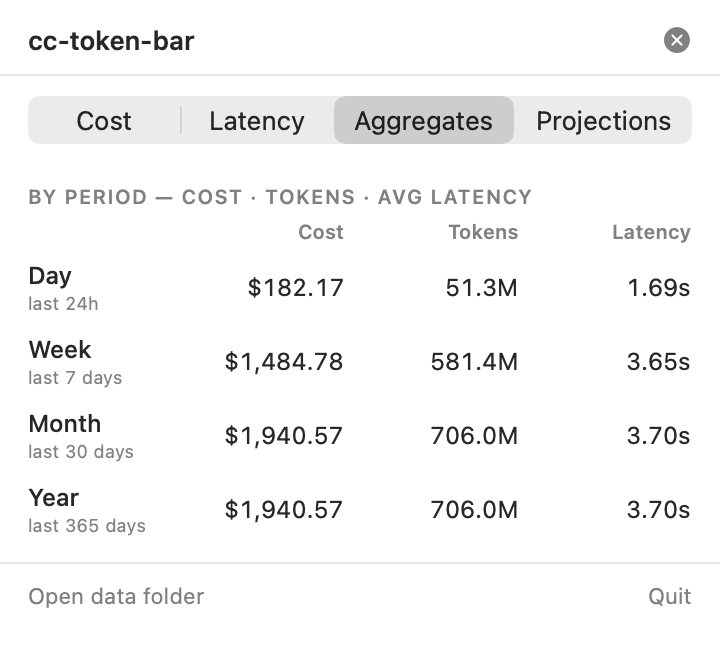
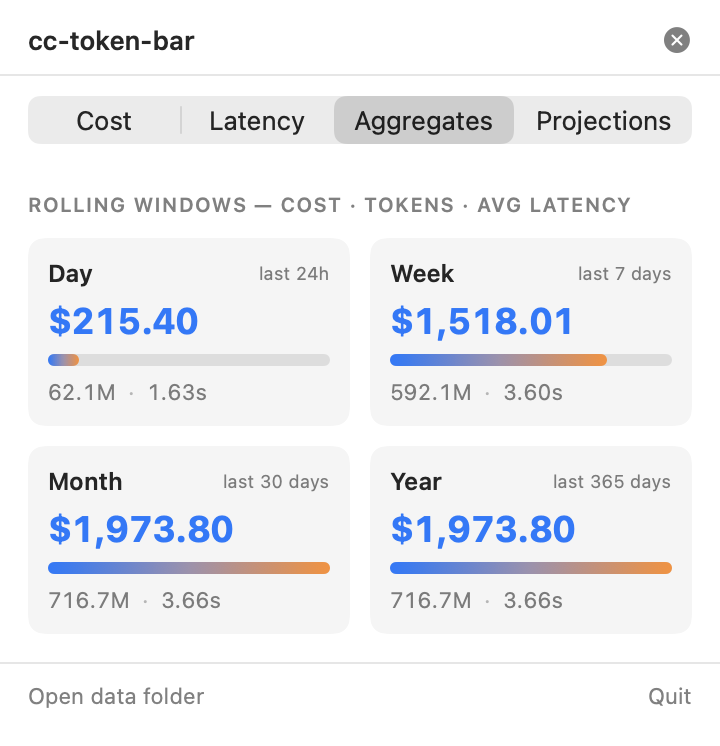
added 2 new tabs

diff --git a/app/Sources/cc-token-bar/Views.swift b/app/Sources/cc-token-bar/Views.swift
@@ -209,11 +209,43 @@ struct PanelView: View {
     }
 
     private var aggregationsSection: some View {
-        periodsSection
+        VStack(alignment: .leading, spacing: 10) {
+            sectionTitle("Rolling windows — cost · tokens · avg latency")
+            LazyVGrid(columns: [GridItem(.flexible(), spacing: 10),
+                                GridItem(.flexible(), spacing: 10)], spacing: 10) {
+                ForEach(store.agg.periods) { p in periodCard(p) }
+            }
+        }
+        .padding(14)
+    }
+
+    private func periodCard(_ p: PeriodRollup) -> some View {
+        let maxCost = store.agg.periods.map(\.costUSD).max() ?? 0
+        return VStack(alignment: .leading, spacing: 6) {
+            HStack {
+                Text(p.label).font(.system(size: 12, weight: .semibold))
+                Spacer()
+                Text(p.sub).font(.system(size: 9)).foregroundStyle(.secondary)
+            }
+            Text(DataStore.formatUSD(p.costUSD))
+                .font(.system(size: 18, weight: .bold)).monospacedDigit()
+                .foregroundStyle(Color.accentColor)
+            bar(fraction: maxCost > 0 ? p.costUSD / maxCost : 0)
+            HStack(spacing: 6) {
+                Text(DataStore.formatTokens(p.tokens))
+                Text("·").foregroundStyle(.tertiary)
+                Text(p.avgLatencyMs > 0 ? DataStore.formatMs(p.avgLatencyMs) : "—")
+            }
+            .font(.system(size: 11)).foregroundStyle(.secondary).monospacedDigit()
+        }
+        .padding(10)
+        .frame(maxWidth: .infinity, alignment: .leading)
+        .background(.quaternary.opacity(0.4))
+        .clipShape(RoundedRectangle(cornerRadius: 8))
     }
 
     private var projectionsSection: some View {
-        VStack(alignment: .leading, spacing: 10) {
+        VStack(alignment: .leading, spacing: 12) {
             sectionTitle("Projected at last 7-day pace")
             HStack(spacing: 10) {
                 kpi(title: "Next 7 days",
@@ -223,42 +255,42 @@ struct PanelView: View {
                     value: DataStore.formatUSD(store.agg.projection.monthlyCost),
                     sub: "\(DataStore.formatTokens(store.agg.projection.monthlyTokens)) tokens")
             }
-            Text("Extrapolated from your last 7 days of usage: daily rate × 7 for the week, × 30 for the month.")
+            trendChart(title: "Cost trend", value: { $0.cost })
+            trendChart(title: "Token trend", value: { Double($0.tokens) })
+            Text("Solid line = actual daily usage (last 14 days). Dashed line = projected forward at your last 7-day pace.")
                 .font(.system(size: 11)).foregroundStyle(.secondary)
                 .fixedSize(horizontal: false, vertical: true)
         }
         .padding(14)
     }
 
-    private var periodsSection: some View {
-        VStack(alignment: .leading, spacing: 4) {
-            sectionTitle("By period — cost · tokens · avg latency")
-            HStack(spacing: 8) {
-                Text("").frame(width: 72, alignment: .leading)
-                Text("Cost").frame(maxWidth: .infinity, alignment: .trailing)
-                Text("Tokens").frame(maxWidth: .infinity, alignment: .trailing)
-                Text("Latency").frame(maxWidth: .infinity, alignment: .trailing)
-            }
-            .font(.system(size: 10, weight: .semibold)).foregroundStyle(.secondary)
-            ForEach(store.agg.periods) { p in
-                HStack(spacing: 8) {
-                    VStack(alignment: .leading, spacing: 1) {
-                        Text(p.label).font(.system(size: 12, weight: .medium))
-                        Text(p.sub).font(.system(size: 9)).foregroundStyle(.secondary)
-                    }
-                    .frame(width: 72, alignment: .leading)
-                    Text(DataStore.formatUSD(p.costUSD))
-                        .frame(maxWidth: .infinity, alignment: .trailing)
-                    Text(DataStore.formatTokens(p.tokens))
-                        .frame(maxWidth: .infinity, alignment: .trailing)
-                    Text(p.avgLatencyMs > 0 ? DataStore.formatMs(p.avgLatencyMs) : "—")
-                        .frame(maxWidth: .infinity, alignment: .trailing)
+    private func trendChart(title: String, value: @escaping (TrendPoint) -> Double) -> some View {
+        VStack(alignment: .leading, spacing: 6) {
+            sectionTitle(title)
+            Chart(store.agg.trend) { p in
+                if !p.projected {
+                    AreaMark(x: .value("Day", p.date), y: .value(title, value(p)))
+                        .foregroundStyle(LinearGradient(
+                            colors: [Color.accentColor.opacity(0.28), Color.accentColor.opacity(0.02)],
+                            startPoint: .top, endPoint: .bottom))
+                        .interpolationMethod(.monotone)
                 }
-                .font(.system(size: 12)).monospacedDigit()
-                .padding(.vertical, 3)
+                LineMark(x: .value("Day", p.date), y: .value(title, value(p)))
+                    .foregroundStyle(by: .value("Kind", p.projected ? "Projected" : "Actual"))
+                    .lineStyle(StrokeStyle(lineWidth: 2, dash: p.projected ? [4, 3] : []))
+                    .interpolationMethod(.monotone)
             }
+            .chartForegroundStyleScale(["Actual": Color.accentColor, "Projected": Color.orange])
+            .chartLegend(position: .top, alignment: .trailing, spacing: 4)
+            .chartYAxis(.hidden)
+            .chartXAxis {
+                AxisMarks(values: .automatic(desiredCount: 4)) {
+                    AxisValueLabel(format: .dateTime.month(.defaultDigits).day())
+                        .font(.system(size: 9)).foregroundStyle(.secondary)
+                }
+            }
+            .frame(height: 92)
         }
-        .padding(.horizontal, 14).padding(.vertical, 10)
     }
 
     private func bar(fraction: Double) -> some View {

diff --git a/app/Sources/cc-token-bar/DataStore.swift b/app/Sources/cc-token-bar/DataStore.swift
@@ -130,13 +130,16 @@ final class DataStore: ObservableObject {
         let now = Date()
         let todayKey = Self.dayKey(for: now, cal: cal)
         let oneDay: TimeInterval = 86_400
+        let trendDays = 14
         let sevenDaysAgo = now.addingTimeInterval(-6 * oneDay)
+        let trendStart = now.addingTimeInterval(-Double(trendDays - 1) * oneDay)
         let windowSecs: [TimeInterval] = [oneDay, 7 * oneDay, 30 * oneDay, 365 * oneDay]
 
         var lifetime = TokenTotals()
         var today = TokenTotals()
         var byModelMap: [String: TokenTotals] = [:]
         var byDayMap: [String: (input: Int, output: Int)] = [:]
+        var dailyMap: [String: (cost: Double, tokens: Int)] = [:]
         var sessionsTodaySet: Set<String> = []
         var periodCost = [Double](repeating: 0, count: windowSecs.count)
         var periodTokens = [Int](repeating: 0, count: windowSecs.count)
@@ -190,6 +193,12 @@ final class DataStore: ObservableObject {
                     periodLatTotal[i] += sessionLatTotal
                     periodLatCount[i] += sessionLatCount
                 }
+                if when >= trendStart {
+                    var d = dailyMap[dayKey] ?? (0, 0)
+                    d.cost += sessionCost
+                    d.tokens += sessionTokens
+                    dailyMap[dayKey] = d
+                }
             }
         }
 
@@ -208,6 +217,22 @@ final class DataStore: ObservableObject {
             weeklyTokens: Int(dailyTokenRate * 7.0),
             monthlyTokens: Int(dailyTokenRate * 30.0)
         )
+
+        var trendActual: [TrendPoint] = []
+        for i in 0..<trendDays {
+            let day = cal.startOfDay(for: now.addingTimeInterval(-Double(trendDays - 1 - i) * oneDay))
+            let key = Self.dayKey(for: day, cal: cal)
+            let v = dailyMap[key] ?? (0, 0)
+            trendActual.append(TrendPoint(id: "a-\(key)", date: day, cost: v.cost, tokens: v.tokens, projected: false))
+        }
+        var trend = trendActual
+        if let last = trendActual.last {
+            trend.append(TrendPoint(id: "p-0", date: last.date, cost: last.cost, tokens: last.tokens, projected: true))
+            for j in 1...7 {
+                let day = cal.startOfDay(for: now.addingTimeInterval(Double(j) * oneDay))
+                trend.append(TrendPoint(id: "p-\(j)", date: day, cost: dailyCostRate, tokens: Int(dailyTokenRate), projected: true))
+            }
+        }
 
         let weekKeys: [String] = (0..<7).map { i in
             let d = Date().addingTimeInterval(-Double(6 - i) * oneDay)
@@ -289,6 +314,7 @@ final class DataStore: ObservableObject {
             toolLatencies: Array(toolLatencies.prefix(10)),
             periods: periods,
             projection: projection,
+            trend: trend,
             cacheHitRatio: cacheRatio,
             sessionsToday: sessionsTodaySet.count,
             sessionsLifetime: sessions.count,

diff --git a/app/Sources/cc-token-bar/Models.swift b/app/Sources/cc-token-bar/Models.swift
@@ -93,6 +93,14 @@ struct Projection: Equatable {
     var monthlyTokens: Int = 0
 }
 
+struct TrendPoint: Identifiable, Equatable {
+    let id: String
+    let date: Date
+    let cost: Double
+    let tokens: Int
+    let projected: Bool
+}
+
 struct Aggregates: Equatable {
     var today: TokenTotals = TokenTotals()
     var lifetime: TokenTotals = TokenTotals()
@@ -102,6 +110,7 @@ struct Aggregates: Equatable {
     var toolLatencies: [ToolLatency] = []
     var periods: [PeriodRollup] = []
     var projection: Projection = Projection()
+    var trend: [TrendPoint] = []
     var cacheHitRatio: Double = 0
     var sessionsToday: Int = 0
     var sessionsLifetime: Int = 0
@@ -113,6 +122,7 @@ struct Aggregates: Equatable {
             && lhs.toolLatencies == rhs.toolLatencies
             && lhs.periods == rhs.periods
             && lhs.projection == rhs.projection
+            && lhs.trend == rhs.trend
             && lhs.cacheHitRatio == rhs.cacheHitRatio
             && lhs.sessionsToday == rhs.sessionsToday
             && lhs.sessionsLifetime == rhs.sessionsLifetime

diff --git a/design-doc.md b/design-doc.md
@@ -240,12 +240,12 @@ Beyond "total tokens" and "tools by cost", here's the broader set that's cheap t
 
 - **Cost** *(default, shown on every open)* — the full metric set: Today/All-time KPIs, cache hit ratio, 7-day chart, tools by cost, cost by model.
 - **Latency** — one row per tool, the average wall-clock latency of its calls, sorted slowest first, with a proportional bar and the call count.
-- **Aggregates** — one row per rolling window (Day = last 24h, Week = last 7d, Month = last 30d, Year = last 365d) showing total cost, total tokens, and average tool latency for that window. A session is counted in a window when its `updated_at` falls inside it; the windows are nested, so the same session contributes to every window it is recent enough for.
-- **Projections** — two cards, **Next 7 days** and **Next 30 days**, each showing projected cost and tokens. Both extrapolate the *last 7 days* of actual consumption: a daily rate (`7d total ÷ 7`) multiplied by 7 for the week card and 30 for the month card. This is a current-pace run-rate, not a calendar forecast — it answers "if I keep going like this week, what will it cost".
+- **Aggregates** — a 2×2 card grid, one card per rolling window (Day = last 24h, Week = last 7d, Month = last 30d, Year = last 365d). Each card leads with the window's total cost (accent colour, large), a gradient bar showing that window's cost as a fraction of the largest window, and a sub-line with total tokens and average tool latency. A session is counted in a window when its `updated_at` falls inside it; the windows are nested, so the same session contributes to every window it is recent enough for. The card grid replaced an earlier flat four-row table — same numbers, more glanceable.
+- **Projections** — two cards (**Next 7 days** / **Next 30 days**) of projected cost and tokens, followed by two Swift Charts: a **cost trend** and a **token trend**. Each chart plots the last 14 days of actual daily usage as a solid accent line with a filled area, then a dashed orange line extending 7 days into the future at the projected daily rate (anchored to the last actual point so the two segments connect). Both the cards and the dashed projection extrapolate the *last 7 days* of actual consumption: a daily rate (`7d total ÷ 7`) multiplied by 7 for the week and 30 for the month. This is a current-pace run-rate, not a calendar forecast — it answers "if I keep going like this week, what will it cost".
 
 The header, tab control, and footer are shared; only the body between them swaps. The selected tab is local UI state and resets to **Cost** when the app relaunches.
 
-**Rolling-window semantics.** Aggregates and Projections use *rolling* trailing windows (last 24h / 7d / 30d / 365d), not calendar periods (today / this week / this month). A rolling window has no boundary reset: at any instant "Week" means the trailing seven days. This was a deliberate choice over calendar periods because it avoids week-start ambiguity and gives a stable, always-comparable run-rate for the projections. The per-window accumulation is a single pass in `DataStore.aggregate(_:)`: each session's cost, token total, and latency (count + `totalMs` summed across its tools) are computed once, then added into every window whose age bound (`now − updated_at ≤ windowSeconds`) the session satisfies.
+**Rolling-window semantics.** Aggregates and Projections use *rolling* trailing windows (last 24h / 7d / 30d / 365d), not calendar periods (today / this week / this month). A rolling window has no boundary reset: at any instant "Week" means the trailing seven days. This was a deliberate choice over calendar periods because it avoids week-start ambiguity and gives a stable, always-comparable run-rate for the projections. The per-window accumulation is a single pass in `DataStore.aggregate(_:)`: each session's cost, token total, and latency (count + `totalMs` summed across its tools) are computed once, then added into every window whose age bound (`now − updated_at ≤ windowSeconds`) the session satisfies. The same pass also bins each session's cost and tokens into a `dailyMap` keyed by day for the trailing 14 days; `aggregate` then emits a `[TrendPoint]` of 14 actual days followed by 7 projected days (each at the 7-day daily rate, the first anchored to the last actual point), which the Projections charts plot directly.
 
 **Tool-name aggregation.** Playwright's MCP server exposes ~25 separate tools (`mcp__playwright__browser_click`, `mcp__playwright__browser_navigate`, …). Listed individually they bury the rest of the tool list and none is individually meaningful. `ToolMetrics.normalizeToolName(_:)` collapses every `mcp__playwright__*` name to a single `mcp_playwright` row. The collapse runs in both tabs — over the hook-written per-tool counters for the Cost tab, and over the transcript-derived latency samples for the Latency tab — so the two tabs always show the same tool identities.
 
@@ -309,28 +309,37 @@ Latency tab body:
 │   Read           ██░░░░░░░   240 ms (1,204×)│
 │   ...                                    │
 
-Aggregates tab body:
+Aggregates tab body (2×2 card grid):
 ├──────────────────────────────────────────┤
-│  By period — cost · tokens · avg latency │
-│              Cost     Tokens    Latency  │
-│  Day        $182.17   51.3M      1.69s   │
-│  last 24h                                │
-│  Week     $1,484.78  581.4M      3.65s   │
-│  last 7 days                             │
-│  Month    $1,940.57  706.0M      3.70s   │
-│  last 30 days                            │
-│  Year     $1,940.57  706.0M      3.70s   │
-│  last 365 days                           │
+│  Rolling windows — cost · tokens · latency│
+│  ┌ Day    last 24h ┐ ┌ Week  last 7 days ┐│
+│  │ $215.40         │ │ $1,518.01         ││
+│  │ ▓▓░░░░░░░░       │ │ ▓▓▓▓▓▓░░░░         ││
+│  │ 62.1M · 1.63s   │ │ 592.1M · 3.60s    ││
+│  └─────────────────┘ └───────────────────┘│
+│  ┌ Month last 30 days┐ ┌ Year last 365d ┐ │
+│  │ $1,973.80          │ │ $1,973.80      │ │
+│  │ ▓▓▓▓▓▓▓▓▓▓          │ │ ▓▓▓▓▓▓▓▓▓▓      │ │
+│  │ 716.7M · 3.66s     │ │ 716.7M · 3.66s │ │
+│  └────────────────────┘ └────────────────┘ │
 
 Projections tab body:
 ├──────────────────────────────────────────┤
 │  Projected at last 7-day pace            │
 │  ┌ Next 7 days ──┐  ┌ Next 30 days ─┐   │
-│  │ $1,484.78     │  │ $6,363.34     │   │
-│  │ 581.4M tokens │  │ 2.49B tokens  │   │
+│  │ $1,518.01     │  │ $6,505.74     │   │
+│  │ 592.1M tokens │  │ 2.54B tokens  │   │
 │  └───────────────┘  └───────────────┘   │
-│  Extrapolated from your last 7 days:     │
-│  daily rate × 7 (week), × 30 (month).    │
+│  Cost trend          ● Actual ● Projected│
+│   ╱▔╲      ╱╲                            │
+│  ╱   ╲╱▔╲╱   ╲▁▁- - - - - - - - -        │  ← solid = actual, dashed = projected
+│   5/17       5/24        5/31            │
+│  Token trend         ● Actual ● Projected│
+│       ╱╲                                 │
+│  ▁▁▁╱   ╲▁▁▁- - - - - - - - - - -        │
+│   5/17       5/24        5/31            │
+│  Solid = actual daily (14d). Dashed =    │
+│  projected at last 7-day pace.           │
 ```
 
 **Refresh:** FSEvents watcher on `~/.cc-token-bar/sessions/` and `tools/`. Recompute aggregates on change. Plus a 5 s repeating timer that runs only while the popover is shown (started in `popoverDidShow`, invalidated in `popoverDidClose`). A one-shot refresh fires on every click-to-open so the panel never paints stale data.
@@ -363,7 +372,7 @@ Both scripts: no comments, no `sleep > 1`, no emojis (per project conventions).
 
 `preview.html` (sibling file) mocks the menu bar dropdown with fake data: header totals, inline SVG 7-day chart, tool-cost list. No JS libraries — pure HTML/CSS/SVG. Use this to iterate on layout before any Swift is written.
 
-**Tab screenshots for docs.** The app accepts a hidden `--snapshot <dir>` argument (`Snapshot.swift`). It boots a headless accessory `NSApplication`, lets `DataStore` load real data, then renders the Aggregates and Projections tabs offscreen (`PanelView(..., embedScroll: false)` so the content sizes to its natural height instead of scrolling) into retina PNGs via `NSHostingView.cacheDisplay`, and exits. The Cost and Latency tabs are captured manually from the live popover instead, because the Cost tab's Swift `Chart` does not render reliably offscreen. Run: `swift build && .build/debug/cc-token-bar --snapshot <repo-root>`.
+**Tab screenshots for docs.** The app accepts a hidden `--snapshot <dir>` argument (`Snapshot.swift`). It boots a headless accessory `NSApplication`, lets `DataStore` load real data, then renders the Aggregates and Projections tabs offscreen (`PanelView(..., embedScroll: false)` so the content sizes to its natural height instead of scrolling) into retina PNGs via `NSHostingView.cacheDisplay`, and exits. Swift `Chart` views *do* render correctly this way — the Projections tab's two trend charts are captured offscreen. The Cost and Latency tabs are still captured manually from the live popover, only so they keep the popover's translucent material background that an offscreen solid-colour render can't reproduce. Run: `swift build && .build/debug/cc-token-bar --snapshot <repo-root>`.
 
 ## 11. Decisions (locked) & remaining questions
 

diff --git a/README.md b/README.md
@@ -206,20 +206,20 @@ The same tools, re-ranked by **average wall-clock time per call** instead of by 
 
 ![cc-token-bar Aggregates tab](./screenshot-aggregates.png)
 
-The same cost, token, and latency numbers — but rolled up over **rolling trailing windows** instead of all-time. One row per window:
+The same cost, token, and latency numbers — but rolled up over **rolling trailing windows**, as a 2×2 card grid:
 
-- **Day** = last 24h, **Week** = last 7 days, **Month** = last 30 days, **Year** = last 365 days. These are rolling windows, not calendar periods — "Week" always means the trailing seven days, with no Monday reset.
-- Each row shows **total cost**, **total tokens**, and **average tool latency** for that window. A session counts toward a window when its last activity falls inside it; the windows nest, so a session three days old contributes to Week, Month, and Year but not Day.
-- In the shot above Month and Year are identical (`$1,940.57`, `706.0M`, `3.70s`) because this machine's tracked history is younger than 30 days — there simply are no sessions older than a month yet, so both windows capture the same set. That's the honest readout, not a placeholder.
+- One card per window: **Day** = last 24h, **Week** = last 7 days, **Month** = last 30 days, **Year** = last 365 days. These are rolling windows, not calendar periods — "Week" always means the trailing seven days, with no Monday reset.
+- Each card leads with that window's **cost** (large, in accent blue), a **gradient bar** showing its cost as a fraction of the largest window, and a sub-line with **total tokens** and **average tool latency**. A session counts toward a window when its last activity falls inside it; the windows nest, so a session three days old contributes to Week, Month, and Year but not Day.
+- In the shot above Month and Year are identical (`$1,973.80`, `716.7M`, `3.66s` — both bars full) because this machine's tracked history is younger than 30 days — there are no sessions older than a month yet, so both windows capture the same set. That's the honest readout, not a placeholder.
 
 ### Projections tab
 
 ![cc-token-bar Projections tab](./screenshot-projections.png)
 
-A forward-looking run-rate built from **actual recent consumption**:
+A forward-looking run-rate built from **actual recent consumption**, with the trend drawn out as charts:
 
-- Two cards — **Next 7 days** and **Next 30 days** — each with a projected **cost** and **token** count.
-- Both extrapolate your *last 7 days*: a daily rate (`7-day total ÷ 7`) multiplied by 7 for the week card and 30 for the month card. At this machine's pace that's `$1,484.78` / `581.4M` tokens for the coming week and `$6,363.34` / `2.49B` tokens for the coming month.
-- It's a current-pace projection, not a calendar forecast — it answers "if I keep working like I did this past week, what will it cost", and it moves as your recent usage moves.
+- Two cards — **Next 7 days** (`$1,518.01` / `592.1M` tokens) and **Next 30 days** (`$6,505.74` / `2.54B` tokens) — each a projected **cost** and **token** count.
+- Two **trend charts**, one for cost and one for tokens. Each plots the **last 14 days of actual daily usage** as a solid blue line with a filled area, then a **dashed orange line** projecting 7 days forward at your current pace. The dashed line connects to the last real point, so you read the past and the projection as one continuous shape.
+- Everything extrapolates your *last 7 days*: a daily rate (`7-day total ÷ 7`) × 7 for the week and × 30 for the month. It's a current-pace projection, not a calendar forecast — it answers "if I keep working like I did this past week, what will it cost", and it moves as your recent usage moves.
 
 The footer is shared by every tab: `Open data folder` reveals `~/.cc-token-bar/` in Finder so you can inspect the raw JSON; `Quit` exits cleanly (the LaunchAgent will respawn it on next login).